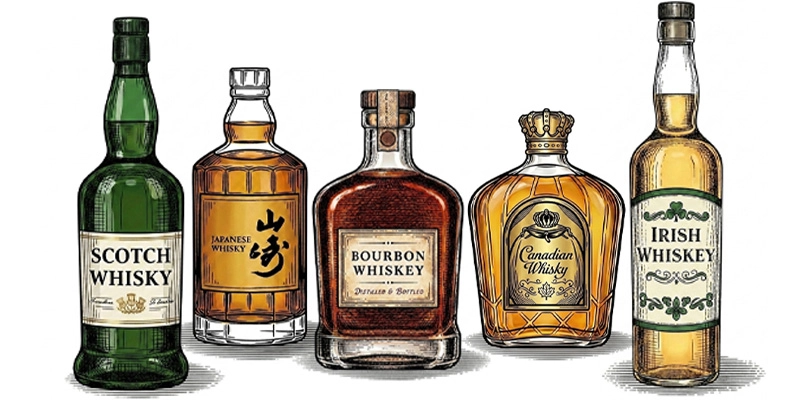
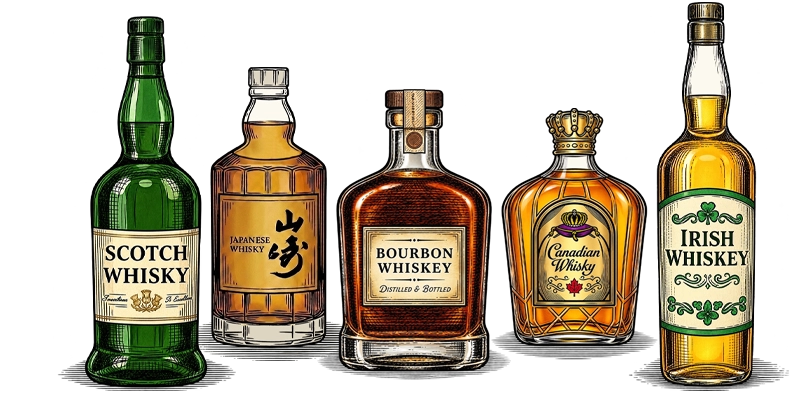
update hero images

diff --git a/index.html b/index.html
@@ -14,7 +14,7 @@
 	<link href="https://fonts.googleapis.com/css2?family=Newsreader:ital,opsz,wght@0,6..72,200..800;1,6..72,200..800&family=Work+Sans:wght@300;400;500;600;700&display=swap" rel="stylesheet">
 	<link rel="stylesheet" href="/assets/styles/styles.css">
 </head>
-<body class="regions-view">
+<body class="regions-view theme--dark">
 	<header class="header">
 		<nav class="nav">
 			<a class="nav__logo" href="/">
@@ -64,7 +64,7 @@
 				<p>Derived from the Classical Gaelic "uisce beatha," meaning "water of life." An alcoholic liquor distilled from a fermented mash of grain, such as barley, rye, or corn, and usually aged in oak containers.</p>
 			</div>
 			<div class="hero__image-col grid__col--12-md grid__col--5-lg">
-				<img class="hero__image" src="/assets/images/hero/hero-whiskey.jpg" alt="illustration of barrels" />
+				<img class="hero__image" src="/assets/images/hero/hero-whiskey.webp" alt="illustration of barrels" />
 			</div>
 			<div class="hero__meta grid__col--full">
 				<div class="hero__meta-item">

diff --git a/stories/index.html b/stories/index.html
@@ -14,7 +14,7 @@
 	<link href="https://fonts.googleapis.com/css2?family=Newsreader:ital,opsz,wght@0,6..72,200..800;1,6..72,200..800&family=Work+Sans:wght@300;400;500;600;700&display=swap" rel="stylesheet">
 	<link rel="stylesheet" href="/assets/styles/styles.css">
 </head>
-<body class="stories-view">
+<body class="stories-view theme--dark">
 	<header class="header">
 		<nav class="nav">
 			<a class="nav__logo" href="/">
@@ -63,7 +63,7 @@
 				<p>Distillery legends, happy accidents, and the odd bit of trivia — the history and lore behind the names on the label.</p>
 			</div>
 			<div class="hero__image-col grid__col--12-md grid__col--5-lg">
-				<img class="hero__image" src="/assets/images/hero/hero-stories.jpg" alt="illustration of lantern, quill, letters and newspaper" />
+				<img class="hero__image" src="/assets/images/hero/hero-stories.webp" alt="illustration of lantern, quill, letters and newspaper" />
 			</div>
 			<div class="hero__meta grid__col--full"></div>
 		</section>

diff --git a/quiz/index.html b/quiz/index.html
@@ -14,7 +14,7 @@
 	<link href="https://fonts.googleapis.com/css2?family=Newsreader:ital,opsz,wght@0,6..72,200..800;1,6..72,200..800&family=Work+Sans:wght@300;400;500;600;700&display=swap" rel="stylesheet">
 	<link rel="stylesheet" href="/assets/styles/styles.css">
 </head>
-<body class="stories-view">
+<body class="stories-view theme--dark">
 	<header class="header">
 		<nav class="nav">
 			<a class="nav__logo" href="/">
@@ -64,7 +64,7 @@
 					<p>Put your whiskey knowledge to the test — from the still and the cask to the label and the regions behind every bottle.</p>
 				</div>
 				<div class="hero__image-col grid__col--12-md grid__col--5-lg">
-					<img class="hero__image" src="/assets/images/hero/hero-quiz.jpg" alt="illustration of whiskey flight" />
+					<img class="hero__image" src="/assets/images/hero/hero-quiz.webp" alt="illustration of whiskey flight" />
 				</div>
 				<div class="hero__meta grid__col--full"></div>
 			</section>

diff --git a/lexicon/index.html b/lexicon/index.html
@@ -14,7 +14,7 @@
 	<link href="https://fonts.googleapis.com/css2?family=Newsreader:ital,opsz,wght@0,6..72,200..800;1,6..72,200..800&family=Work+Sans:wght@300;400;500;600;700&display=swap" rel="stylesheet">
 	<link rel="stylesheet" href="/assets/styles/styles.css">
 </head>
-<body>
+<body class="theme--dark">
 	<header class="header">
 		<nav class="nav">
 			<a class="nav__logo" href="/">
@@ -96,7 +96,7 @@
 						<p>From mash bill to maturation, a reference for the language of whiskey — the terms, techniques, and traditions behind every pour.</p>
 					</div>
 					<div class="hero__image-col grid__col--12-md grid__col--5-lg">
-						<img class="hero__image" src="/assets/images/hero/hero-lexicon.jpg" alt="illustration of a quill, ink and book" />
+						<img class="hero__image" src="/assets/images/hero/hero-lexicon.webp" alt="illustration of a quill, ink and book" />
 					</div>
 				</section>
 

diff --git a/catalog/index.html b/catalog/index.html
@@ -14,7 +14,7 @@
 	<link href="https://fonts.googleapis.com/css2?family=Newsreader:ital,opsz,wght@0,6..72,200..800;1,6..72,200..800&family=Work+Sans:wght@300;400;500;600;700&display=swap" rel="stylesheet">
 	<link rel="stylesheet" href="/assets/styles/styles.css">
 </head>
-<body class="catalog-view">
+<body class="catalog-view theme--dark">
 	<header class="header">
 		<nav class="nav">
 			<a class="nav__logo" href="/">
@@ -63,7 +63,7 @@
 				<p>A working ledger of bottles, production notes, mash bills, and tasting impressions from the private collection.</p>
 			</div>
 			<div class="hero__image-col grid__col--12-md grid__col--5-lg">
-				<img class="hero__image" src="/assets/images/hero/hero-catalog.jpg" alt="illustration of bottles" />
+				<img class="hero__image" src="/assets/images/hero/hero-catalog.webp" alt="illustration of bottles" />
 			</div>
 		</section>
 

diff --git a/flavors/index.html b/flavors/index.html
@@ -14,7 +14,7 @@
 	<link href="https://fonts.googleapis.com/css2?family=Newsreader:ital,opsz,wght@0,6..72,200..800;1,6..72,200..800&family=Work+Sans:wght@300;400;500;600;700&display=swap" rel="stylesheet">
 	<link rel="stylesheet" href="/assets/styles/styles.css">
 </head>
-<body class="flavors-view">
+<body class="flavors-view theme--dark">
 	<header class="header">
 		<nav class="nav">
 			<a class="nav__logo" href="/">
@@ -63,7 +63,7 @@
 				<p>A sensory map of whiskey — families of aroma and flavor branching down into individual notes.</p>
 			</div>
 			<div class="hero__image-col grid__col--12-md grid__col--5-lg">
-				<img class="hero__image" src="/assets/images/hero/hero-flavors.jpg" alt="illustration of flavors" />
+				<img class="hero__image" src="/assets/images/hero/hero-flavors.webp" alt="illustration of flavors" />
 			</div>
 		</section>
 
